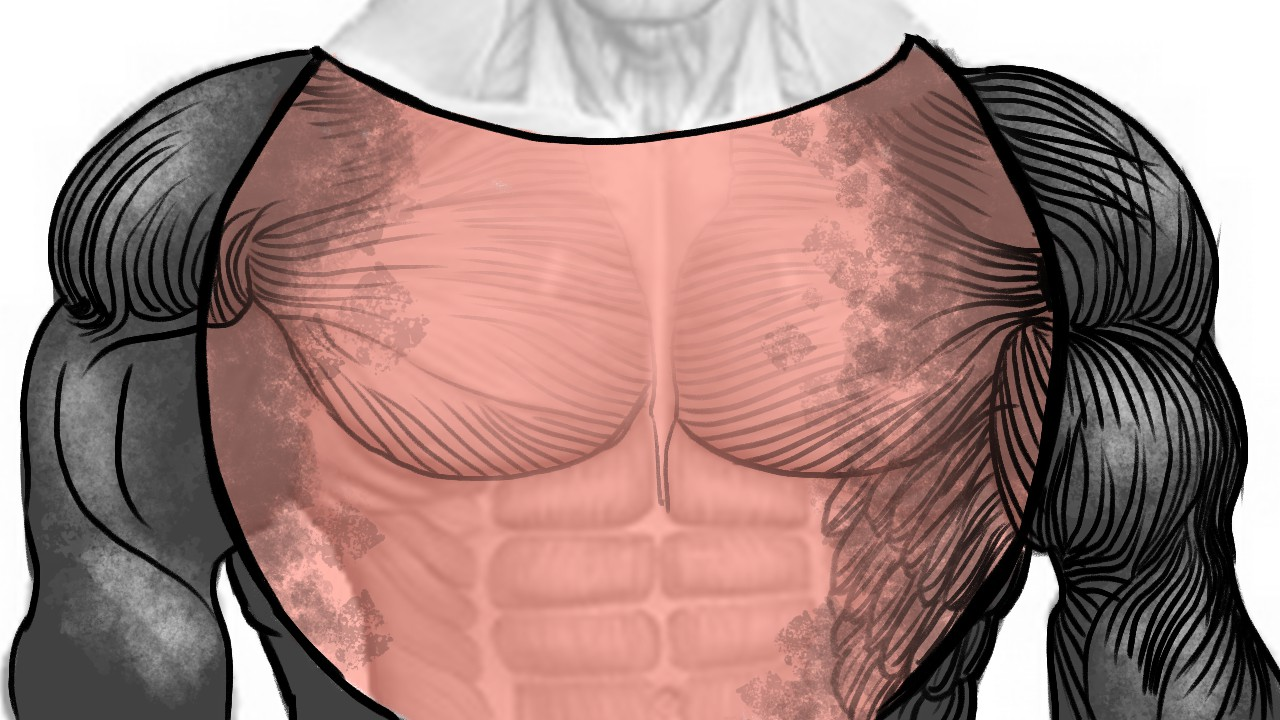
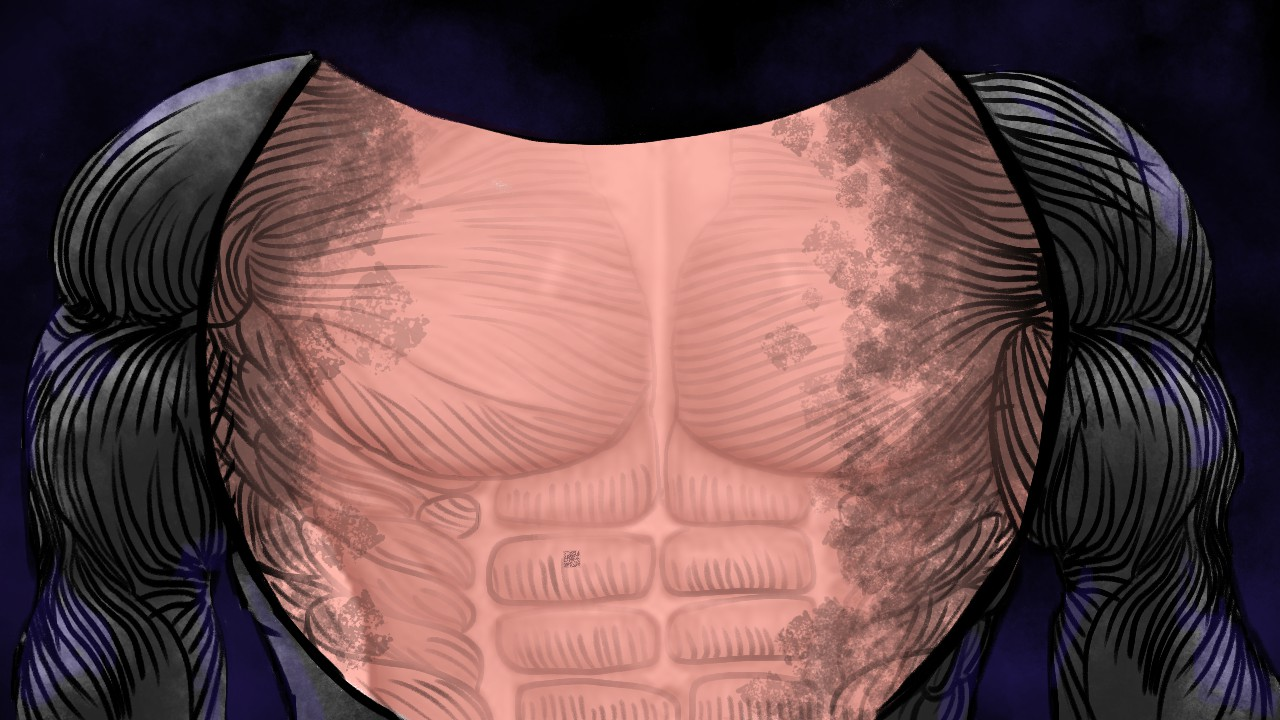
Credits and new bg

diff --git a/index.html b/index.html
@@ -135,6 +135,17 @@ Game.prototype.render = function(ctx) {
 
     this.ctx2D.restore();
     
+    //
+    this.ctx2D.save();
+    this.ctx2D.font = 'bold 15px monospace';
+    this.ctx2D.textAlign = 'center';
+    this.ctx2D.fillStyle = '#fff';
+    this.ctx2D.lineWidth = 4;
+    this.ctx2D.strokeStyle = '#000';
+    this.ctx2D.strokeText('Staying Alive - Ludum Dare #33 Game by Olli Etuaho, Zachary Laster, Sakari Leppä, Valtteri Heinonen and Anastasia Diatlova', this.ctx2D.canvas.width * 0.5, 700);
+    this.ctx2D.fillText('Staying Alive - Ludum Dare #33 Game by Olli Etuaho, Zachary Laster, Sakari Leppä, Valtteri Heinonen and Anastasia Diatlova', this.ctx2D.canvas.width * 0.5, 700);
+    this.ctx2D.restore();
+    
     gl.bindTexture(gl.TEXTURE_2D, this.canvas2DTexture);
     gl.texImage2D(gl.TEXTURE_2D, 0, gl.RGBA, gl.RGBA, gl.UNSIGNED_BYTE, this.canvas2D);
     this.glManager.useQuadVertexBuffer(true);
